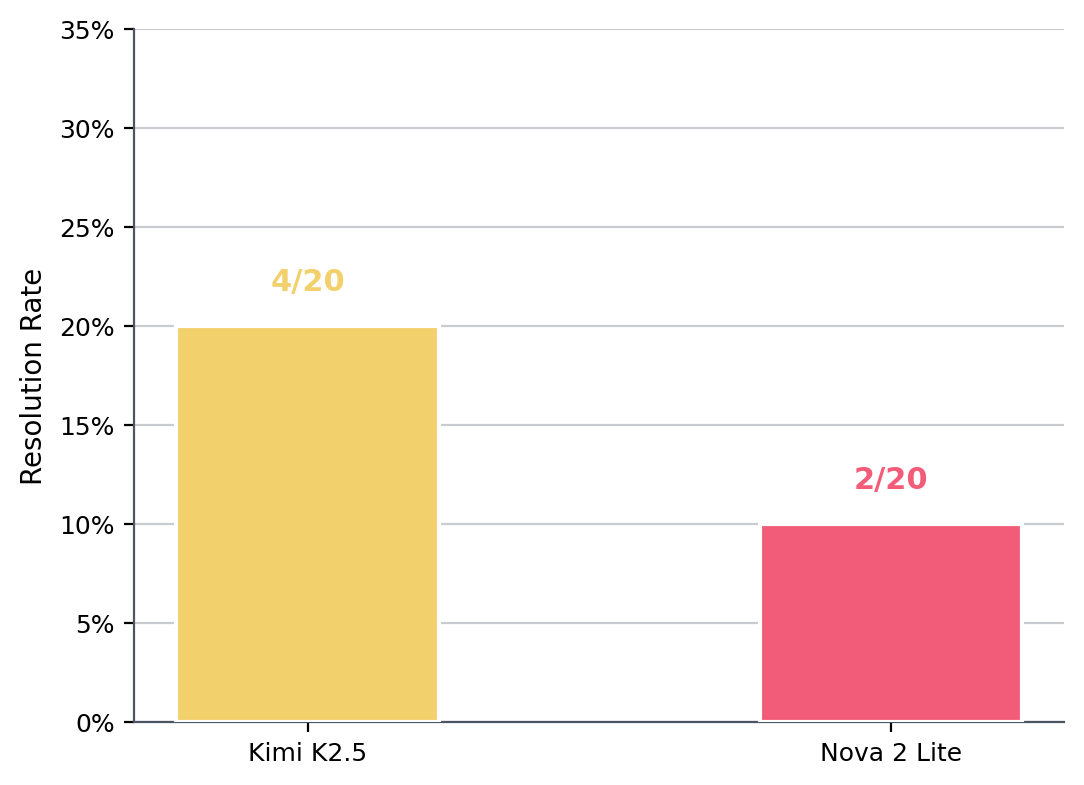
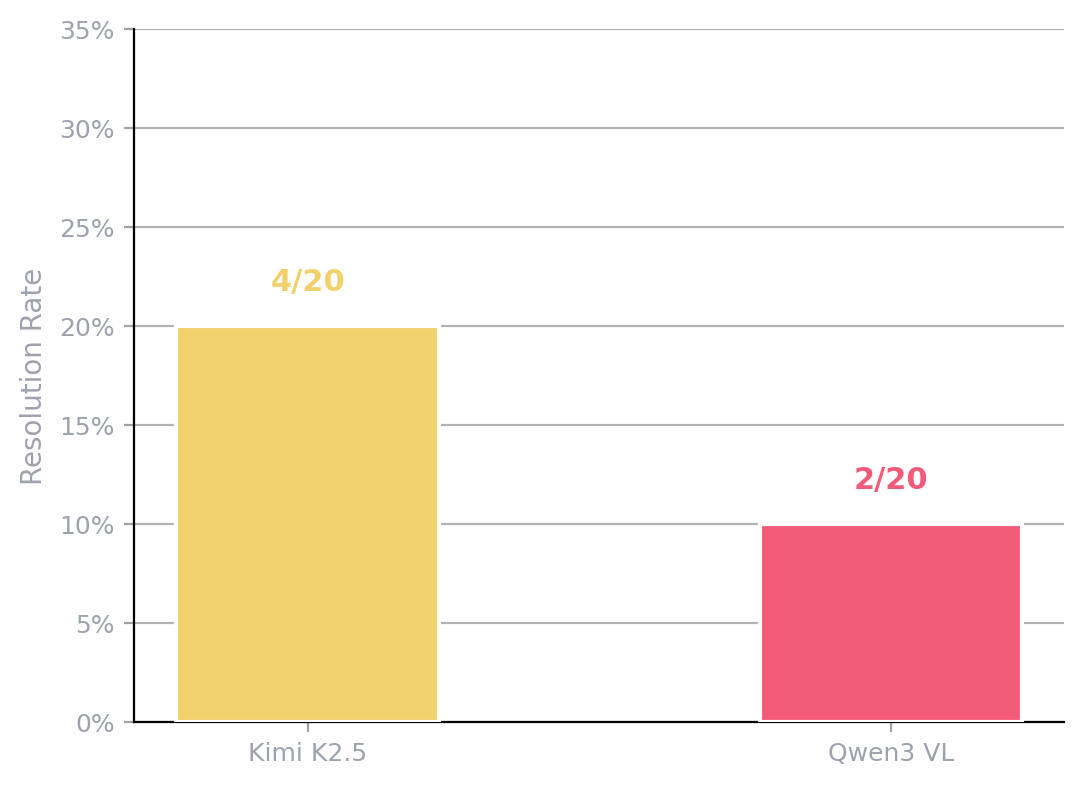
feat(tesseract): update model references from Nova 2 Lite to Qwen3 VL
- Replaced all instances of "Nova 2 Lite" with "Qwen3 VL" in CSS, JS, and XML files.
- Updated related chart images and alt texts to reflect the new model.
- Adjusted total counts and pass rates in the portal view to accommodate the new model.
- Ensured consistent styling and functionality across the dashboard for the new model.

diff --git a/custom_addons/tesseract_dashboard/static/src/portal/js/tesseract_portal.js b/custom_addons/tesseract_dashboard/static/src/portal/js/tesseract_portal.js
@@ -252,12 +252,12 @@
 
   // totals
   const totalKimi = instances.filter(i => i.runs['Kimi K2.5']?.pass_at_1 === 'Pass').length;
-  const totalNova = instances.filter(i => i.runs['Nova 2 Lite']?.pass_at_1 === 'Pass').length;
+  const totalQwen = instances.filter(i => i.runs['Qwen3 VL']?.pass_at_1 === 'Pass').length;
   const total = instances.length;
   const elKimi = document.getElementById('total-kimi');
-  const elNova = document.getElementById('total-nova');
+  const elQwen = document.getElementById('total-qwen');
   if (elKimi) elKimi.textContent = `${totalKimi} / ${total}`;
-  if (elNova) elNova.textContent = `${totalNova} / ${total}`;
+  if (elQwen) elQwen.textContent = `${totalQwen} / ${total}`;
 
   // ---------- VIEW TOGGLE (matrix / repo) ---------------------------------
   const tabs = document.querySelectorAll('.vt-btn');
@@ -382,7 +382,7 @@
           <td class="matrix-meta">${esc(inst.language)}</td>
           <td class="matrix-meta">${esc(inst.difficulty)}</td>
           ${tileHTML(inst, 'Kimi K2.5')}
-          ${tileHTML(inst, 'Nova 2 Lite')}
+          ${tileHTML(inst, 'Qwen3 VL')}
           <td class="matrix-expand">
             <span class="matrix-expand-icon" aria-hidden="true">
               <svg viewBox="0 0 24 24" fill="none" stroke="currentColor" stroke-width="2"><path d="M9 5l7 7-7 7"/></svg>
@@ -395,7 +395,7 @@
               <div class="matrix-detail-grid">
                 ${instanceBlock(inst)}
                 ${detailBlock(inst, 'Kimi K2.5', 'kimi')}
-                ${detailBlock(inst, 'Nova 2 Lite', 'nova')}
+                ${detailBlock(inst, 'Qwen3 VL', 'qwen')}
               </div>
             </div>
           </td>
@@ -415,13 +415,13 @@
     }
     const list = Array.from(m.values()).map((g) => {
       const kimiPass = g.instances.filter(i => i.runs['Kimi K2.5']?.pass_at_1 === 'Pass').length;
-      const novaPass = g.instances.filter(i => i.runs['Nova 2 Lite']?.pass_at_1 === 'Pass').length;
-      return { ...g, kimiPass, novaPass, n: g.instances.length };
+      const qwenPass = g.instances.filter(i => i.runs['Qwen3 VL']?.pass_at_1 === 'Pass').length;
+      return { ...g, kimiPass, qwenPass, n: g.instances.length };
     });
     // sort: any-pass first, then by repo name
     list.sort((a, b) => {
-      const aScore = a.kimiPass + a.novaPass;
-      const bScore = b.kimiPass + b.novaPass;
+      const aScore = a.kimiPass + a.qwenPass;
+      const bScore = b.kimiPass + b.qwenPass;
       if (aScore !== bScore) return bScore - aScore;
       return a.repo.localeCompare(b.repo);
     });
@@ -453,7 +453,7 @@
           <span class="run-diff">${esc(inst.difficulty)}</span>
         </div>
         ${mk('Kimi K2.5', 'kimi')}
-        ${mk('Nova 2 Lite', 'nova')}
+        ${mk('Qwen3 VL', 'qwen')}
       </div>
     `;
   };
@@ -463,7 +463,7 @@
     if (!root) return;
     root.innerHTML = repoGroups.map((g, i) => {
       const kimiCls = g.kimiPass > 0 ? 'has-pass' : '';
-      const novaCls = g.novaPass > 0 ? 'has-pass' : '';
+      const qwenCls = g.qwenPass > 0 ? 'has-pass' : '';
       const open = g.repo === 'processing/p5.js';   // auto-expand the "look here" row
       const childrenId = `repo-children-${i}`;
       return `
@@ -473,7 +473,7 @@
             <span class="repo-name">${esc(g.repo)}</span>
             <span class="repo-lang">${esc(g.language)}</span>
             <span class="repo-score score-kimi ${kimiCls}">K <b>${g.kimiPass}/${g.n}</b></span>
-            <span class="repo-score score-nova ${novaCls}">N <b>${g.novaPass}/${g.n}</b></span>
+            <span class="repo-score score-qwen ${qwenCls}">Q <b>${g.qwenPass}/${g.n}</b></span>
           </button>
           <div class="repo-children" id="${childrenId}" ${open ? '' : 'hidden'}>
             ${g.instances.map(runCard).join('')}
@@ -495,7 +495,7 @@
 
   // ---------- MATRIX ROW EXPAND ------------------------------------------
   // Click anywhere on a row to expand its detail view (Instance + Kimi +
-  // Nova side-by-side). Click again to collapse. Only one row open at a
+  // Qwen side-by-side). Click again to collapse. Only one row open at a
   // time — opening another closes the previously open one.
   let openInstanceId = null;
 

diff --git a/custom_addons/tesseract_dashboard/static/src/portal/css/tesseract_portal.css b/custom_addons/tesseract_dashboard/static/src/portal/css/tesseract_portal.css
@@ -43,8 +43,8 @@
   /* model semantic colors — split into ink + surface variants */
   --kimi:          #2A5CB8;   /* blue ink · 5.9:1 */
   --kimi-surface:  #E5EDFB;
-  --nova:          #5C3FB3;   /* purple ink · 7.2:1 */
-  --nova-surface:  #EEE4FB;
+  --qwen:          #5C3FB3;   /* purple ink · 7.2:1 */
+  --qwen-surface:  #EEE4FB;
 
   /* pass / fail */
   --pass:          #0E8F4B;   /* green ink · 4.6:1 on white */
@@ -703,7 +703,7 @@ hr.rule {
 .caption a { color: var(--accent); border-bottom: 1px solid var(--border-2); }
 .caption a:hover { border-color: var(--accent); }
 .tok-kimi { color: var(--kimi); font-weight: 500; }
-.tok-nova { color: var(--nova); font-weight: 500; }
+.tok-qwen { color: var(--qwen); font-weight: 500; }
 
 /* ---------- §05 KPI cards ------------------------------- */
 .kpi-row {
@@ -878,7 +878,7 @@ hr.rule {
   color: var(--accent);
 }
 
-/* Expanded-detail row — 3-column grid: Instance / Kimi / Nova.
+/* Expanded-detail row — 3-column grid: Instance / Kimi / Qwen.
    Same diluted lime wash as the row above for visual continuity. */
 .matrix-detail-row td {
   padding: 0;
@@ -918,7 +918,7 @@ hr.rule {
   border-bottom: 1px dashed var(--border);
 }
 .matrix-detail-title.tok-kimi { color: var(--kimi); }
-.matrix-detail-title.tok-nova { color: var(--nova); }
+.matrix-detail-title.tok-qwen { color: var(--qwen); }
 .matrix-detail-item {
   display: flex;
   justify-content: space-between;
@@ -1085,7 +1085,7 @@ hr.rule {
   letter-spacing: 0.04em;
 }
 .total-chip--kimi { color: var(--kimi); }
-.total-chip--nova { color: var(--nova); }
+.total-chip--qwen { color: var(--qwen); }
 
 .matrix-hint {
   margin-top: 14px;
@@ -1151,10 +1151,10 @@ hr.rule {
   color: var(--ink-2);
 }
 .repo-score.score-kimi b,
-.repo-score.score-nova b { font-weight: 600; }
+.repo-score.score-qwen b { font-weight: 600; }
 .repo-score.has-pass { color: var(--accent); }
 .repo-score.score-kimi.has-pass { color: var(--accent); }
-.repo-score.score-nova.has-pass { color: var(--accent); }
+.repo-score.score-qwen.has-pass { color: var(--accent); }
 
 @media (max-width: 640px) {
   .repo-head {
@@ -1222,7 +1222,7 @@ hr.rule {
   margin-bottom: 4px;
 }
 .run-model--kimi .run-model-head { color: var(--kimi); }
-.run-model--nova .run-model-head { color: var(--nova); }
+.run-model--qwen .run-model-head { color: var(--qwen); }
 .run-stat { color: var(--ink-3); font-size: 11px; letter-spacing: 0.04em; }
 .run-val { color: var(--ink); font-variant-numeric: tabular-nums; font-size: 12px; }
 .run-pass {
@@ -1379,8 +1379,8 @@ hr.rule {
   /* model semantic colors */
   --kimi:            #89B5FF;
   --kimi-surface:    rgba(137,181,255,0.14);
-  --nova:            #CDB0FF;
-  --nova-surface:    rgba(205,176,255,0.14);
+  --qwen:            #CDB0FF;
+  --qwen-surface:    rgba(205,176,255,0.14);
 
   /* pass / fail */
   --pass:            #5EE695;
@@ -1422,7 +1422,7 @@ hr.rule {
     --accent: #EE00EE;  --accent-2: #FF44FF;  --accent-bright: #EE00EE;
     --accent-surface: rgba(238,0,238,0.12);  --accent-on: #FFFFFF;
     --kimi: #89B5FF;  --kimi-surface: rgba(137,181,255,0.14);
-    --nova: #CDB0FF;  --nova-surface: rgba(205,176,255,0.14);
+    --qwen: #CDB0FF;  --qwen-surface: rgba(205,176,255,0.14);
     --pass: #5EE695;  --pass-surface: rgba(94,230,149,0.14);
     --fail: #FF8F8F;  --fail-surface: rgba(255,143,143,0.12);
     --easy: #A1A7B6;  --medium: #DDE3EE;  --hard: #CDB0FF;  --expert: #FF8F8F;
